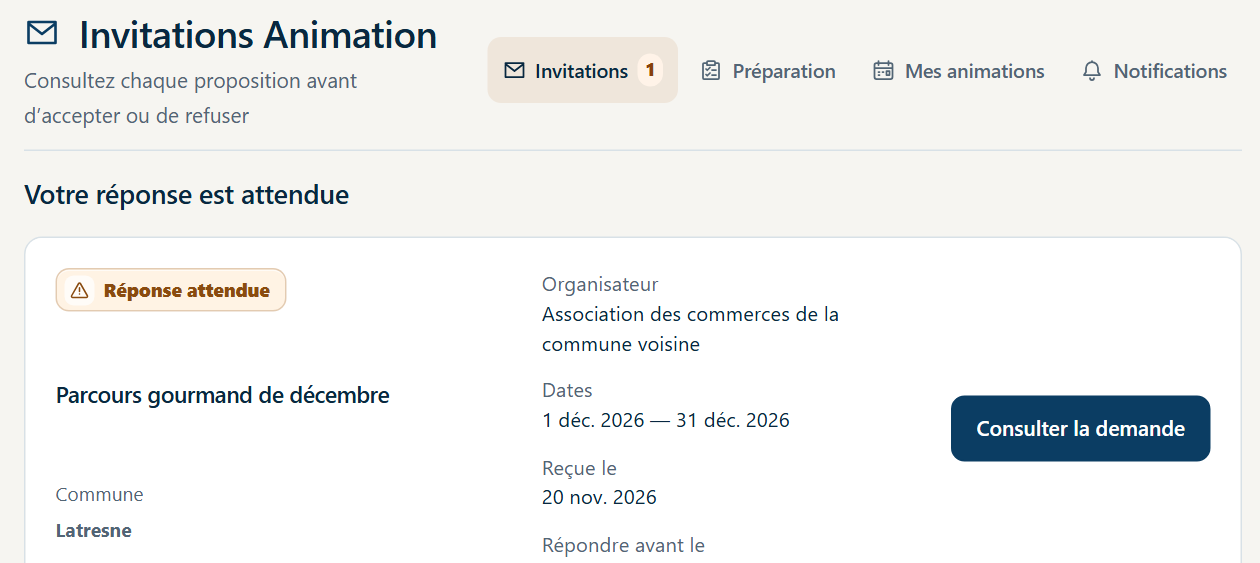
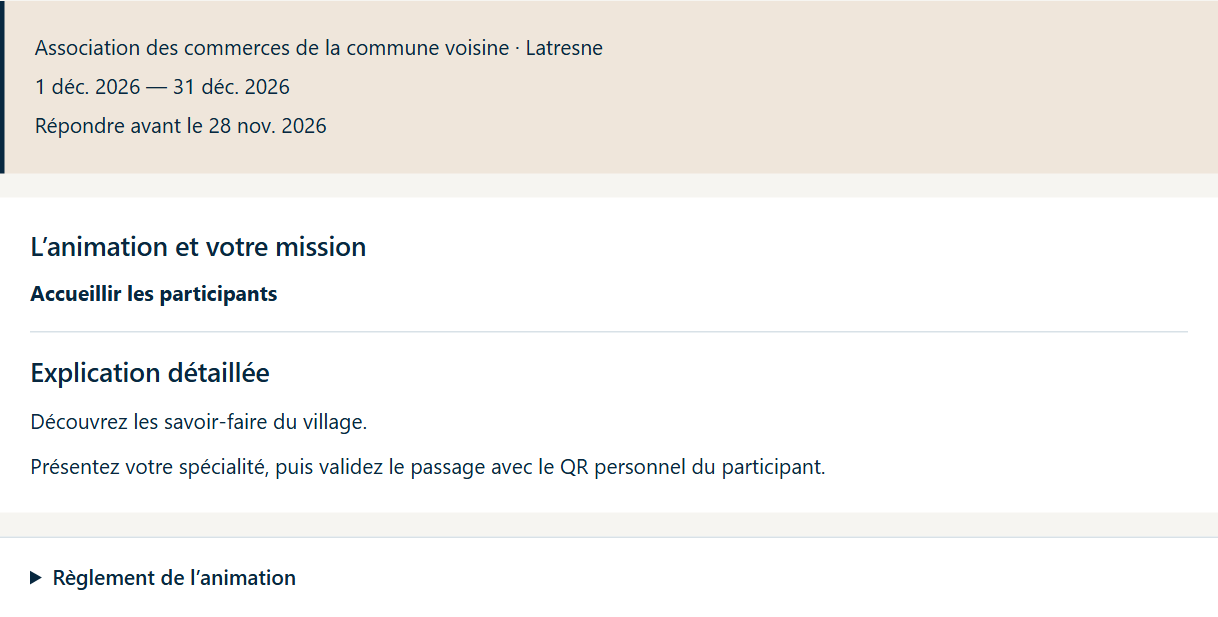
docs(pro): actualiser le guide et la présentation des missions

diff --git a/docs/produit/formation/commercant/guide-quotidien-commercant.md b/docs/produit/formation/commercant/guide-quotidien-commercant.md
@@ -1,6 +1,6 @@
 # Localeo Pro · Votre guide au quotidien
 
-<!-- Source canonique du PDF embarqué. Édition du 25 novembre 2026. Chaque section de niveau 2 ouvre une page. Captures de Localeo Pro avec des exemples fictifs. -->
+<!-- Source canonique du PDF embarqué. Édition du 26 novembre 2026. Chaque section de niveau 2 ouvre une page. Captures de Localeo Pro avec des exemples fictifs. -->
 
 <!-- Sommaire : Prendre en main Localeo Pro -->
 
@@ -99,14 +99,14 @@ Vous pouvez recevoir une invitation d’une association de votre commune ou d’
 
 1. Dans **À traiter**, ouvrez l’invitation. Vous pouvez aussi passer par **Animations**, puis **Invitations**. Sur téléphone, ouvrez **Rubriques** pour trouver cette liste.
 2. Choisissez **Consulter la demande**. Vérifiez l’organisateur, la commune, les dates et la date limite pour répondre.
-3. Lisez votre mission et les préparatifs. Dépliez **Présentation et règlement**. Vérifiez que vous êtes disponible et que vous pouvez réaliser la mission.
+3. Lisez **L’animation et votre mission**, puis **Explication détaillée**. Ouvrez **Règlement de l’animation** avant de répondre.
 4. Choisissez **Accepter la participation** et attendez la confirmation. Vous retrouvez votre participation dans **Mes animations**.
 
-![Consulter la demande ouvre la mission. La liste affiche aussi l’échéance pour répondre.](illustrations/guide-quotidien/12-invitations.png)
+![Le rappel indique votre rôle. Les préparatifs figurent dans Explication détaillée.](illustrations/guide-quotidien/12-invitations.png)
 
 ### Si c’est une chasse au trésor
 
-Choisissez une mission si plusieurs sont proposées. Lisez **Ce que liront les participants chez vous** et les préparatifs. Cochez **Je peux réaliser cette mission et tous les préparatifs ci-dessus.**, puis choisissez **Accepter cette mission**. Vous pouvez alors accéder au kit et commencer votre préparation.
+Choisissez une mission si plusieurs sont proposées. Dans l’explication, lisez les préparatifs et ouvrez **Ce que liront les participants chez vous**. Cochez **Je peux réaliser cette mission et tous les préparatifs ci-dessus.** Choisissez ensuite **Accepter cette mission**.
 
 ### Si vous devez refuser ou vous retirer
 
@@ -118,7 +118,7 @@ Après une coupure, choisissez **Vérifier ma décision**. Si le délai de répo
 
 Une fois votre invitation acceptée, ouvrez **Préparation des animations**. Les deux états vous indiquent ce que vous avez préparé et si vous avez prévenu l’organisateur.
 
-1. Choisissez **Voir la préparation**, puis **Comprendre ma mission**. Relisez les dates et les consignes.
+1. Choisissez **Voir la préparation**, puis **Comprendre ma mission**. Relisez votre rôle et les préparatifs.
 2. À l’étape 2, ouvrez le kit et réalisez les préparatifs demandés. Pour un passeport, une tombola ou une chasse, choisissez **J’ai terminé ma préparation** si l’action est proposée. Vérifiez que la préparation est indiquée comme terminée.
 3. Si l’organisateur demande une déclaration, ouvrez **Informer l’organisateur**, puis choisissez **Je suis prêt**. Vérifiez que la déclaration est datée et enregistrée.
 

diff --git a/docs/produit/formation/commercant/guide-commercant.md b/docs/produit/formation/commercant/guide-commercant.md
@@ -1,6 +1,6 @@
 # Guide commerçant — validation et incidents réseau
 
-Pour l’onboarding et l’usage quotidien, remettre le [guide pédagogique illustré](../../../../livrables/formation/commercant/guide-quotidien-localeo-commercant.pdf), édition du 21 novembre 2026, dont la [source éditable](guide-quotidien-commercant.md) est maintenue ici. Le présent document conserve les détails de validation et de reprise d’incident.
+Pour l’onboarding et l’usage quotidien, remettre le guide pédagogique illustré. Le présent document conserve les détails de validation et de reprise d’incident. [Guide pédagogique (PDF)](../../../../livrables/formation/commercant/guide-quotidien-localeo-commercant.pdf) · [Source éditable](guide-quotidien-commercant.md).
 
 ## Connexion
 
@@ -68,11 +68,10 @@ l’animation et l’échéance de réponse. Ouvrez directement la demande conce
 Les invitations suivantes restent accessibles par les pages de cette rubrique ;
 **Scanner un QR** garde sa place au-dessus. Ouvrir une invitation ne l’accepte pas.
 
-Consultez les dates et votre mission ; ouvrez « Présentation et règlement » pour
-les détails (pour une chasse : « Consulter le règlement et les détails de
-l’animation »). S’il y a plusieurs missions, choisissez celle que vous pouvez
-réaliser. Pour une chasse, lisez tous les préparatifs affichés puis cochez l’accord
-unique. Le bouton d’acceptation enregistre directement votre décision.
+Vérifiez les dates, puis lisez **L’animation et votre mission** et **Explication
+détaillée**. Ouvrez **Règlement de l’animation** avant de répondre. Pour une
+chasse, choisissez la mission que vous pouvez réaliser, lisez ses préparatifs
+puis cochez l’accord. Le bouton d’acceptation enregistre votre décision.
 
 Le refus et le retrait demandent une confirmation ; leur motif reste facultatif.
 Après une erreur réseau, utilisez « Vérifier ma décision » avant de retenter.
@@ -144,9 +143,9 @@ effectue la préparation nécessaire avant le téléchargement, sans nouvelle é
 à remplir. Si cette action échoue ou reste incertaine, suivez le message de reprise
 affiché ; ne multipliez pas les clics. Une simple consultation ne prépare rien.
 
-Le bouton **Voir le guide de préparation** permet aussi de consulter toutes les
-consignes dans l’application. Les informations complémentaires restent repliées
-pour laisser visibles votre mission et les actions utiles.
+Dans l’invitation acceptée ou la fiche de l’animation, ouvrez **Voir le guide de
+préparation** pour lire les consignes propres au kit. Dans le parcours de
+préparation, retrouvez-les à l’étape des supports.
 
 Préparez les objets éventuels indiqués dans votre mission et installez les
 supports à l’emplacement convenu. Les accès peuvent être indisponibles avant

diff --git a/livrables/INDEX.md b/livrables/INDEX.md
@@ -8,7 +8,7 @@ Guides PDF, prompts, visuels et prototypes produits. Les versions historiques re
 - [Plaquette commerciale Localeo Animation, version historique](communication/plaquette-commerciale-localeo-animation.pdf) : une page A4 du 6 novembre 2026 pour les communes et associations de commerçants ; [aperçu, contenu éditorial et sources](communication/README.md).
 - [Présentation commerciale Localeo Animation](communication/presentation-localeo-animation.pptx) : 12 diapositives modifiables avec notes orateur, pour les rendez-vous avec les collectivités et associations de commerçants.
 
-Le [guide quotidien Localeo Pro](formation/commercant/guide-quotidien-localeo-commercant.pdf), édition illustrée du 25 novembre 2026, propose un sommaire cliquable pour retrouver les gestes du comptoir, la préparation des animations et la gestion du commerce. [Source éditable](../docs/produit/formation/commercant/guide-quotidien-commercant.md). Les guides de prise en main v7 à v11 ci-dessous restent des versions historiques.
+Le guide quotidien Localeo Pro du 26 novembre 2026 propose un sommaire cliquable pour retrouver les gestes du comptoir, la préparation des animations et la gestion du commerce. [Guide quotidien Localeo Pro](formation/commercant/guide-quotidien-localeo-commercant.pdf) · [Source éditable](../docs/produit/formation/commercant/guide-quotidien-commercant.md). Les guides de prise en main v7 à v11 ci-dessous restent des versions historiques.
 
 Le [guide quotidien Localeo Animation](formation/animation/guide-quotidien-localeo-animation.pdf), édition illustrée du 26 novembre 2026, couvre les interventions du jour, la création, la publication, le suivi des participants, les dossiers de lots et le bilan. [Source éditable](../docs/produit/formation/animation/guide-quotidien-animation.md).
 

diff --git a/docs/specifications/espace-commercant/README.md b/docs/specifications/espace-commercant/README.md
@@ -296,6 +296,19 @@ Les demandes de participation sont séparées des animations déjà acceptées. 
 
 Le détail d'une demande restitue la version présentée par le backend : organisateur, commune, dates, description, règlement et sa version, mission du commerçant, consignes, contraintes pratiques, contact et date limite de réponse.
 
+L’invitation, la fiche de l’animation et **Comprendre ma mission** présentent la
+mission en deux blocs. **L’animation et votre mission** rappelle le rôle du
+commerçant sous les informations de l’animation. **Explication détaillée**
+regroupe la description, les consignes et les préparatifs, avec une occurrence
+par texte identique. Pour le Juste Prix Local, l’explication indique que
+l’organisateur approuve le produit avant publication. Pour une chasse, le choix
+se fait dans le rappel. Les préparatifs, l’aperçu joueur et l’accord sont dans
+l’explication. Pour le Jeu des vitrines, la mission est consultable sous
+**Mission et supports complémentaires** dans le parcours de préparation.
+Le volet **Règlement de l’animation** donne accès au texte et à sa version avant
+la réponse. Sur les écrans qui affichent la mission et le kit, le volet **Voir
+le guide de préparation** donne accès aux consignes propres aux supports.
+
 Le commerçant peut :
 
 - accepter directement avec un engagement explicite visible, sans écran de confirmation supplémentaire ; pour une chasse, confirmer globalement les préparatifs affichés de la mission choisie (accord non précoché) ;

diff --git a/docs/produit/formation/commercant/illustrations/guide-quotidien/README.md b/docs/produit/formation/commercant/illustrations/guide-quotidien/README.md
@@ -1,5 +1,18 @@
 # Illustrations du guide quotidien commerçant
 
+## Invitation du 26 novembre 2026
+
+`12-invitations.png` montre la mission, son explication et l’accès au règlement
+dans le détail d’une invitation. La capture est issue de Pro à 1 100 px sous
+Chromium, sur la base `ac604a6` avec le correctif local. Les données sont
+fictives et les requêtes externes bloquées.
+
+```powershell
+$env:LOCALEO_TEST_DIST = 'tmp/mission-ux-20261126/browser-dist'
+node scripts/build-browser-tests.mjs
+node scripts/capture-merchant-guide.mjs --dist tmp/mission-ux-20261126/browser-dist --report-dir tmp/mission-ux-20261126/guide-capture --port 46181 --only 12-invitations
+```
+
 ## Captures de l’édition du 25 novembre 2026
 
 `23-valider-passage.png` montre le passage d’un joueur avant confirmation, à
@@ -15,10 +28,6 @@ $env:LOCALEO_TEST_DIST = 'tmp/guide-edition-20261125/capture-dist'
 node scripts/build-browser-tests.mjs
 node scripts/capture-merchant-guide.mjs --dist tmp/guide-edition-20261125/capture-dist --report-dir tmp/guide-edition-20261125/capture-report --port 45181 --only 23-valider-passage,24-mot-de-passe-oublie
 ```
-
-## Invitation du 24 novembre 2026
-
-La capture `12-invitations.png` du 24 novembre 2026 illustre l’invitation d’une association voisine avec des données fictives. Depuis le dépôt Commerçant, utiliser le build local documenté puis `node scripts/capture-merchant-guide.mjs --dist tmp/e84-guide-pro --only 12-invitations`.
 
 ## Scan depuis l’appareil photo — E82, 24 novembre 2026
 
